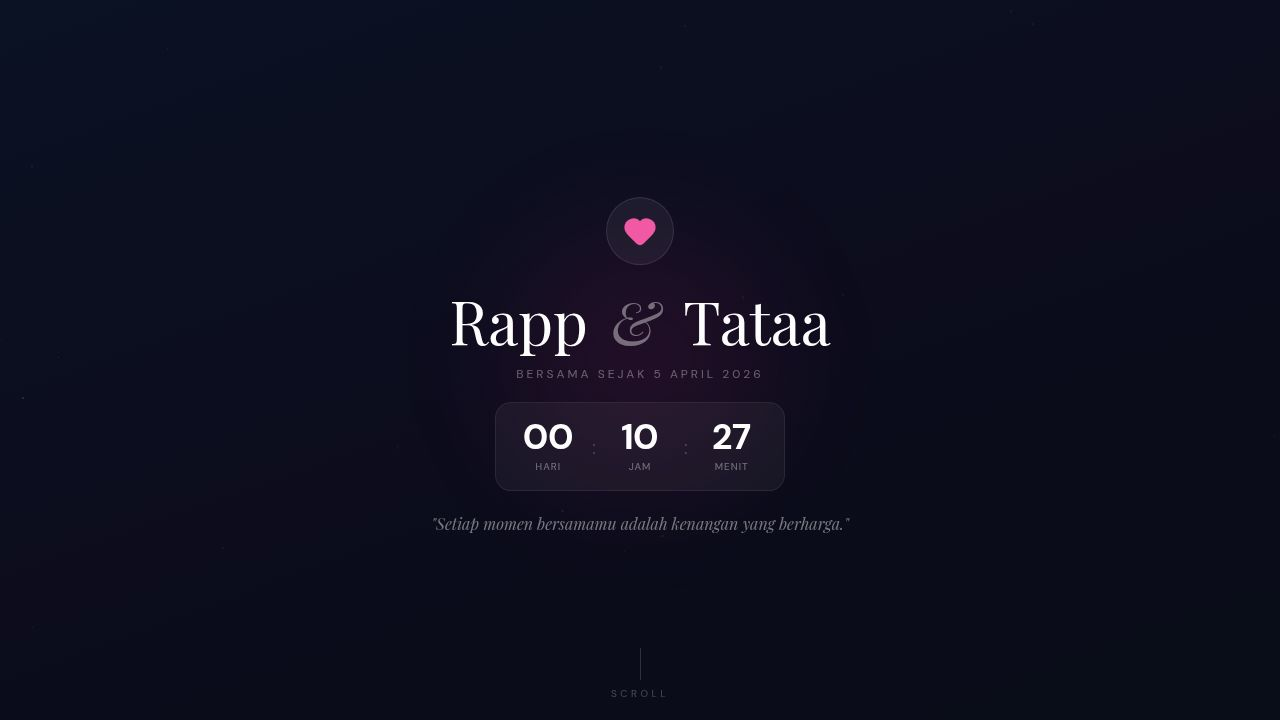
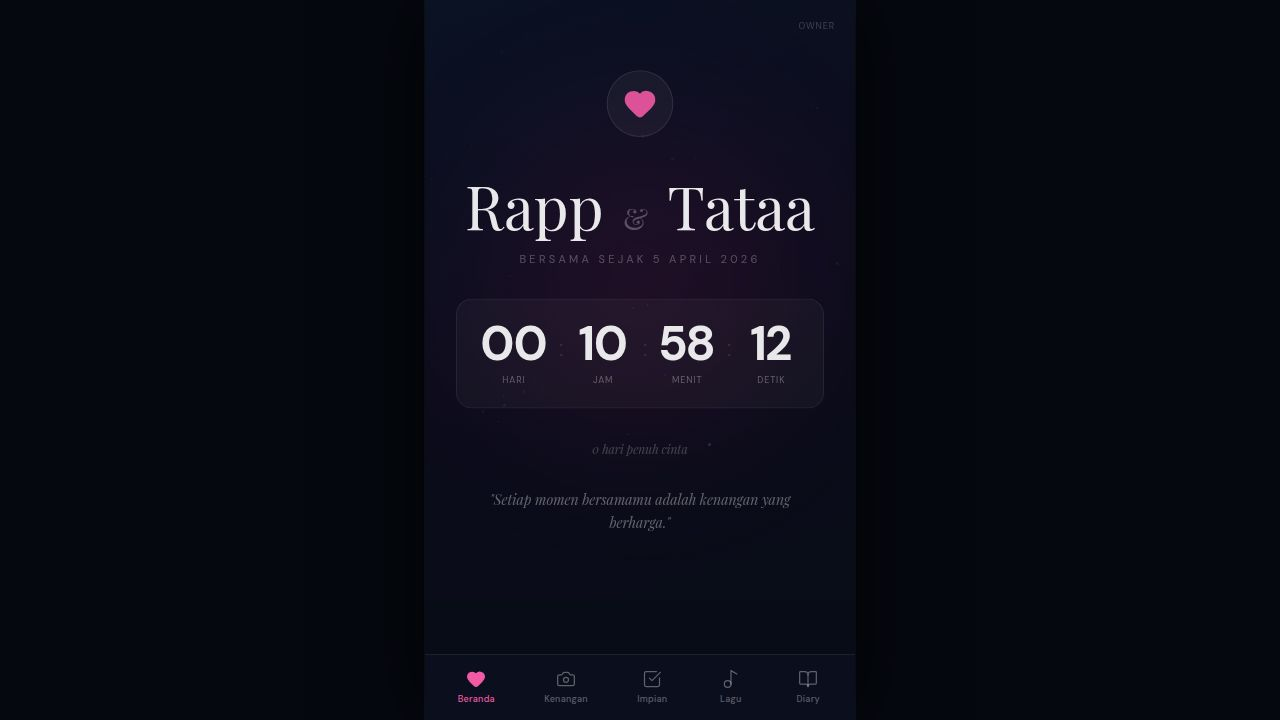
Improve song display and indicate playable songs
Update the songs list to visually distinguish songs with audio from those without, and dim non-playable songs on the public page.

Replit-Commit-Author: Agent
Replit-Commit-Session-Id: a62334ed-7880-4b4a-8a74-52f21008773a
Replit-Commit-Checkpoint-Type: full_checkpoint
Replit-Commit-Event-Id: 757a6f54-0628-4600-a87e-88ec2758380b
Replit-Commit-Screenshot-Url: https://storage.googleapis.com/screenshot-production-us-central1/bf0b1d0f-3759-4484-9bd0-5149435241fb/a62334ed-7880-4b4a-8a74-52f21008773a/LRNtG8c
Replit-Helium-Checkpoint-Created: true

diff --git a/artifacts/bucin-web/src/pages/owner.tsx b/artifacts/bucin-web/src/pages/owner.tsx
@@ -359,10 +359,19 @@ function SongsSection({ personId, name1, name2 }: { personId: number | null; nam
         <div className="space-y-2">
           {songs.map(song => (
             <div key={song.id} className="flex items-center gap-3 rounded-xl px-3 py-2.5 border border-white/8" style={{ background: "rgba(255,255,255,0.04)" }}>
-              <Music2 className="w-4 h-4 text-white/30 shrink-0" />
+              <div className="shrink-0 relative">
+                <Music2 className="w-4 h-4 shrink-0" style={{ color: song.audioUrl ? "hsl(330,85%,55%)" : "rgba(255,255,255,0.20)" }} />
+              </div>
               <div className="flex-1 min-w-0">
-                <p className="text-white/80 text-sm truncate">{song.title}</p>
-                <p className="text-white/30 text-xs">{song.artist} · {personLabels[song.person] ?? song.person}</p>
+                <div className="flex items-center gap-1.5">
+                  <p className="text-white/80 text-sm truncate">{song.title || "Tanpa judul"}</p>
+                  {!song.audioUrl && (
+                    <span className="text-[9px] px-1.5 py-0.5 rounded border border-white/10 text-white/25 shrink-0">no audio</span>
+                  )}
+                </div>
+                <p className="text-white/30 text-xs">
+                  {song.artist ? `${song.artist} · ` : ""}{personLabels[song.person] ?? song.person}
+                </p>
               </div>
               <Button variant="ghost" size="icon" className="w-7 h-7 text-white/20 hover:text-red-400 shrink-0"
                 onClick={() => deleteSong({ id: song.id })}>

diff --git a/artifacts/bucin-web/src/pages/lagu.tsx b/artifacts/bucin-web/src/pages/lagu.tsx
@@ -17,7 +17,7 @@ function SongCard({ song }: { song: Song }) {
       initial={{ opacity: 0, scale: 0.92 }}
       whileInView={{ opacity: 1, scale: 1 }}
       viewport={{ once: true }}
-      className="rounded-2xl border overflow-hidden cursor-pointer active:scale-95 transition-transform"
+      className={`rounded-2xl border overflow-hidden transition-transform ${hasAudio ? "cursor-pointer active:scale-95" : "cursor-default opacity-50"}`}
       style={{
         background: isThisSong
           ? "linear-gradient(145deg, rgba(180,40,100,0.18), rgba(130,20,80,0.10))"